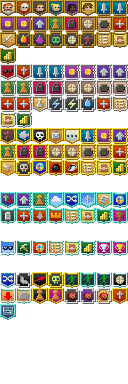
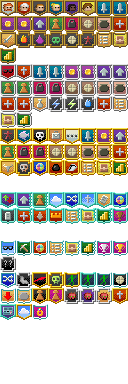
新增成就

Changed region(s): [[0.125, 0.7812, 0.375, 0.8438], [0.0, 0.6562, 0.125, 0.7188]]

diff --git a/core/src/main/java/com/shatteredpixel/shatteredpixeldungeon/Badges.java b/core/src/main/java/com/shatteredpixel/shatteredpixeldungeon/Badges.java
@@ -24,10 +24,14 @@ package com.shatteredpixel.shatteredpixeldungeon;
 import com.shatteredpixel.shatteredpixeldungeon.actors.buffs.AscensionChallenge;
 import com.shatteredpixel.shatteredpixeldungeon.actors.Actor;
 import com.shatteredpixel.shatteredpixeldungeon.actors.Char;
+import com.shatteredpixel.shatteredpixeldungeon.actors.hero.Belongings;
+import com.shatteredpixel.shatteredpixeldungeon.actors.hero.Hero;
 import com.shatteredpixel.shatteredpixeldungeon.actors.hero.HeroClass;
 import com.shatteredpixel.shatteredpixeldungeon.actors.hero.HeroSubClass;
 import com.shatteredpixel.shatteredpixeldungeon.actors.mobs.YogFist;
 import com.shatteredpixel.shatteredpixeldungeon.actors.mobs.npcs.Imp;
+import com.shatteredpixel.shatteredpixeldungeon.items.Amulet;
+import com.shatteredpixel.shatteredpixeldungeon.items.Generator;
 import com.shatteredpixel.shatteredpixeldungeon.items.Item;
 import com.shatteredpixel.shatteredpixeldungeon.items.artifacts.Artifact;
 import com.shatteredpixel.shatteredpixeldungeon.items.bags.MagicalHolster;
@@ -37,6 +41,7 @@ import com.shatteredpixel.shatteredpixeldungeon.items.bags.VelvetPouch;
 import com.shatteredpixel.shatteredpixeldungeon.items.potions.Potion;
 import com.shatteredpixel.shatteredpixeldungeon.items.quest.Pickaxe;
 import com.shatteredpixel.shatteredpixeldungeon.items.remains.RemainsItem;
+import com.shatteredpixel.shatteredpixeldungeon.items.rings.Ring;
 import com.shatteredpixel.shatteredpixeldungeon.items.scrolls.Scroll;
 import com.shatteredpixel.shatteredpixeldungeon.items.weapon.curses.Explosive;
 import com.shatteredpixel.shatteredpixeldungeon.items.weapon.melee.MeleeWeapon;
@@ -177,6 +182,7 @@ public class Badges {
 		VICTORY_NO_TALENTS          ( 146 ),
 		VICTORY_MANY_TALENTS        ( 147 ),
 		BOSS_SLAIN_YOG_REMAINS      ( 151 ),
+		SURFACE_WITHOUT_AMULET      ( 153 ),
 
 		//platinum
 		MANY_BUFFS                  ( 96 ),
@@ -214,6 +220,7 @@ public class Badges {
 		HIGH_SCORE_4                ( 110 ),
 		CHAMPION_1                  ( 111 ),
 		SPEEDRUN_2                  ( 141 ),
+		RING_COLLECTOR              ( 154 ),
 
 		//diamond
 		PACIFIST_ASCENT             ( 120 ),
@@ -247,6 +254,24 @@ public class Badges {
 		Badge( int image, BadgeType type ) {
 			this.image = image;
 			this.type = type;
+		}
+
+		private static final int HIDDEN_BADGE_IMAGE = 128;
+
+		private boolean concealed(boolean unlocked){
+			return this == RING_COLLECTOR && !unlocked;
+		}
+
+		public int image(boolean unlocked){
+			return concealed(unlocked) ? HIDDEN_BADGE_IMAGE : image;
+		}
+
+		public String title(boolean unlocked){
+			return concealed(unlocked) ? Messages.get(Badges.class, "hidden_title") : title();
+		}
+
+		public String desc(boolean unlocked){
+			return concealed(unlocked) ? Messages.get(Badges.class, "hidden_desc") : desc();
 		}
 
 		public String title(){
@@ -1265,9 +1290,27 @@ public class Badges {
 		displayBadge( badge );
 	}
 	
+	public static void validateRingCollection(Hero hero){
+		if (hero == null || hero != Dungeon.hero || !hero.isAlive() || Belongings.bundleRestoring
+				|| local.contains(Badge.RING_COLLECTOR)) return;
+
+		HashSet<Class<? extends Ring>> rings = new HashSet<>();
+		for (Ring ring : hero.belongings.getAllItems(Ring.class)){
+			rings.add(ring.getClass());
+		}
+		for (Class<?> ringType : Generator.Category.RING.classes){
+			if (!rings.contains(ringType)) return;
+		}
+
+		local.add(Badge.RING_COLLECTOR);
+		displayBadge(Badge.RING_COLLECTOR);
+	}
+
 	public static void validateHappyEnd() {
-		local.add( Badge.HAPPY_END );
-		displayBadge( Badge.HAPPY_END );
+		Badge ending = Dungeon.hero.belongings.getItem(Amulet.class) != null
+				? Badge.HAPPY_END : Badge.SURFACE_WITHOUT_AMULET;
+		local.add(ending);
+		displayBadge(ending);
 
 		if( Dungeon.hero.belongings.getItem(RemainsItem.class) != null ){
 			local.add( Badge.HAPPY_END_REMAINS );

diff --git a/core/src/main/java/com/shatteredpixel/shatteredpixeldungeon/Statistics.java b/core/src/main/java/com/shatteredpixel/shatteredpixeldungeon/Statistics.java
@@ -74,6 +74,7 @@ public class Statistics {
 
 	
 	public static boolean amuletObtained = false;
+	public static boolean yogDefeated = false;
 	public static boolean gameWon = false;
 	public static boolean ascended = false;
 	
@@ -119,6 +120,7 @@ public class Statistics {
 
 		
 		amuletObtained = false;
+		yogDefeated = false;
 		gameWon = false;
 		ascended = false;
 		
@@ -164,6 +166,7 @@ public class Statistics {
 	private static final String RANDOM_VICTORY_QUALIFIED= "qualifiedForRandomVictory";
 	
 	private static final String AMULET          = "amuletObtained";
+	private static final String YOG_DEFEATED    = "yogDefeated";
 	private static final String WON		        = "won";
 	private static final String ASCENDED		= "ascended";
 	
@@ -211,6 +214,7 @@ public class Statistics {
 		bundle.put(RANDOM_VICTORY_QUALIFIED, qualifiedForRandomVictoryBadge);
 		
 		bundle.put( AMULET,		amuletObtained );
+		bundle.put( YOG_DEFEATED, yogDefeated );
 		bundle.put( WON,        gameWon );
 		bundle.put( ASCENDED,   ascended );
 	}
@@ -267,6 +271,7 @@ public class Statistics {
 		qualifiedForRandomVictoryBadge = bundle.getBoolean( RANDOM_VICTORY_QUALIFIED );
 		
 		amuletObtained	= bundle.getBoolean( AMULET );
+		yogDefeated = bundle.contains(YOG_DEFEATED) ? bundle.getBoolean(YOG_DEFEATED) : amuletObtained;
 		gameWon         = bundle.getBoolean( WON );
 		ascended        = bundle.getBoolean( ASCENDED );
 	}

diff --git a/core/src/main/java/com/shatteredpixel/shatteredpixeldungeon/items/Item.java b/core/src/main/java/com/shatteredpixel/shatteredpixeldungeon/items/Item.java
@@ -38,6 +38,7 @@ import com.shatteredpixel.shatteredpixeldungeon.actors.hero.Talent;
 import com.shatteredpixel.shatteredpixeldungeon.effects.Speck;
 import com.shatteredpixel.shatteredpixeldungeon.items.bags.Bag;
 import com.shatteredpixel.shatteredpixeldungeon.items.bags.MagicPocket;
+import com.shatteredpixel.shatteredpixeldungeon.items.rings.Ring;
 import com.shatteredpixel.shatteredpixeldungeon.items.weapon.missiles.MissileWeapon;
 import com.shatteredpixel.shatteredpixeldungeon.items.weapon.missiles.darts.Dart;
 import com.shatteredpixel.shatteredpixeldungeon.items.weapon.missiles.darts.TippedDart;
@@ -303,6 +304,9 @@ public class Item implements Bundlable {
 		}
 
 		items.add( this );
+		if ((this instanceof Ring || this instanceof Bag) && container.owner == Dungeon.hero){
+			Badges.validateRingCollection(Dungeon.hero);
+		}
 		Dungeon.quickslot.replacePlaceholder(this);
 		Collections.sort( items, itemComparator );
 		updateQuickslot();

diff --git a/core/src/main/java/com/shatteredpixel/shatteredpixeldungeon/windows/WndBadge.java b/core/src/main/java/com/shatteredpixel/shatteredpixeldungeon/windows/WndBadge.java
@@ -39,19 +39,19 @@ public class WndBadge extends Window {
 		
 		super();
 		
-		Image icon = BadgeBanner.image( badge.image );
+		Image icon = BadgeBanner.image(badge.image(unlocked));
 		icon.scale.set( 2 );
 		if (!unlocked) icon.brightness(0.4f);
 		add( icon );
 
-		RenderedTextBlock title = PixelScene.renderTextBlock( badge.title(), 9 );
+		RenderedTextBlock title = PixelScene.renderTextBlock(badge.title(unlocked), 9);
 		title.maxWidth(MAX_WIDTH - MARGIN * 2);
 		title.align(RenderedTextBlock.CENTER_ALIGN);
 		title.hardlight(TITLE_COLOR);
 		if (!unlocked) title.hardlight( 0x888822 );
 		add(title);
 
-		String desc = badge.desc();
+		String desc = badge.desc(unlocked);
 		String unlock = Badges.showCompletionProgress(badge);
 
 		if (unlock != null){

diff --git a/core/src/main/java/com/shatteredpixel/shatteredpixeldungeon/ui/changelist/ReShatteredChanges.java b/core/src/main/java/com/shatteredpixel/shatteredpixeldungeon/ui/changelist/ReShatteredChanges.java
@@ -64,6 +64,9 @@ public class ReShatteredChanges {
 		changes.addButton(new ChangeButton(ChangeIcons.v022_RING_ZIRCON, "奥法戒指",
 			"\n-新增奥法戒指，奥法戒指会提升法杖的伤害与效果。\n-现在诅咒戒指的诅咒效果由戒指本身的强度决定，越高品质的戒指诅咒效果越强力。"
 		));
+		changes.addButton(new ChangeButton(ChangeIcons.V061_BADGE, "新徽章",
+			"\n-淡泊名利：不携带Yendor护符离开地牢。\n-一个隐藏成就。"
+		));
 
 
 		changes = new ChangeInfo("增强", false, null);

diff --git a/core/src/main/java/com/shatteredpixel/shatteredpixeldungeon/ui/BadgesGrid.java b/core/src/main/java/com/shatteredpixel/shatteredpixeldungeon/ui/BadgesGrid.java
@@ -110,7 +110,7 @@ public class BadgesGrid extends Component {
 			this.badge = badge;
 			this.unlocked = unlocked;
 
-			icon = BadgeBanner.image(badge.image);
+			icon = BadgeBanner.image(badge.image(unlocked));
 			if (!unlocked) {
 				icon.brightness(0.4f);
 			}
@@ -144,7 +144,7 @@ public class BadgesGrid extends Component {
 
 		@Override
 		protected String hoverText() {
-			return badge.title();
+			return badge.title(unlocked);
 		}
 	}
 

diff --git a/core/src/main/java/com/shatteredpixel/shatteredpixeldungeon/levels/SewerLevel.java b/core/src/main/java/com/shatteredpixel/shatteredpixeldungeon/levels/SewerLevel.java
@@ -148,7 +148,7 @@ public class SewerLevel extends RegularLevel {
 	@Override
 	public boolean activateTransition(Hero hero, LevelTransition transition) {
 		if (transition.type == LevelTransition.Type.SURFACE){
-			if (hero.belongings.getItem( Amulet.class ) == null) {
+			if (!Statistics.yogDefeated) {
 				Game.runOnRenderThread(new Callback() {
 					@Override
 					public void call() {

diff --git a/core/src/main/java/com/shatteredpixel/shatteredpixeldungeon/actors/mobs/YogDzewa.java b/core/src/main/java/com/shatteredpixel/shatteredpixeldungeon/actors/mobs/YogDzewa.java
@@ -540,6 +540,7 @@ public class YogDzewa extends Mob {
 			Statistics.qualifiedForBossChallengeBadge = false;
 		}
 		Statistics.bossScores[4] += 5000 + 1250*Statistics.spawnersAlive;
+		if (Dungeon.branch == 0 && Dungeon.depth == 25) Statistics.yogDefeated = true;
 
 		Badges.validateBossSlain();
 		Badges.validateTakingTheMick(cause);

diff --git a/core/src/main/java/com/shatteredpixel/shatteredpixeldungeon/items/rings/Ring.java b/core/src/main/java/com/shatteredpixel/shatteredpixeldungeon/items/rings/Ring.java
@@ -132,6 +132,7 @@ public class Ring extends KindofMisc {
 		}
 		buff = buff();
 		buff.attachTo( ch );
+		if (ch == Dungeon.hero) Badges.validateRingCollection(Dungeon.hero);
 	}
 
 	@Override
